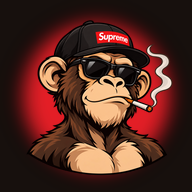
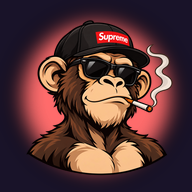
retos: vuelve la paleta violeta/coral (se conserva el mono, la pantalla de entrada y el modo sin anfitrión)
Claude-Session: https://claude.ai/code/session_01YT6P1pj1u3mj19AFxzmjTE

diff --git a/retos/src/app/globals.css b/retos/src/app/globals.css
@@ -1,11 +1,11 @@
-/* Boca Abajo — paleta del mono: negro cálido, marrones de pelaje, tostado, rojo #E31E26, crema y brasa #FF9E2C.
-   Contraste (scripts/contraste.mjs): texto sobre rojo = blanco (4,69); sobre brasa/tostado/menta = tinta (≥9);
-   el rojo solo en elementos grandes; bordes #B88A62 (≥4,6 sobre superficies). */
+/* Boca Abajo — paleta base: #191329 fondo · #2B2040 superficies · #FF6B6B coral · #FFF4E6 crema · #FFD166 amarillo.
+   Ajustes por contraste (ver scripts/contraste.mjs): texto sobre coral/amarillo/menta es oscuro (#191329);
+   bordes de UI en #9A89C6 (≥3:1 sobre fondo y superficies). */
 :root {
-  --bg: #17100D; --surface: #2A1B14; --surface-2: #3B261B; --line: #B88A62;
-  --red: #E31E26; --red-deep: #8E1218; --cream: #FFF1E0; --gold: #FF9E2C; --gold-deep: #B3640B; --tan: #F3C79C;
-  --ink: #0D0908; --muted: #D8C3B0; --mint: #8EE0A4; --danger: #FF9A92;
-  --radius: 20px; --shadow: 0 0 0 3px #0D0908, 0 8px 0 3px #0D0908;
+  --bg: #191329; --surface: #2B2040; --surface-2: #3A2C55; --line: #9A89C6;
+  --coral: #FF6B6B; --coral-deep: #B8434A; --cream: #FFF4E6; --yellow: #FFD166; --yellow-deep: #B88A1F;
+  --ink: #191329; --muted: #CDBFE6; --mint: #7EE0B5; --danger: #FF8A8A;
+  --radius: 20px; --shadow: 0 6px 0 rgba(0, 0, 0, 0.42);
   --font: "Bricolage Grotesque Variable", ui-rounded, "Trebuchet MS", system-ui, sans-serif;
   color-scheme: dark;
 }
@@ -14,15 +14,15 @@ html { -webkit-text-size-adjust: 100%; }
 body {
   margin: 0; min-height: 100dvh; font-family: var(--font); font-size: 17px; line-height: 1.4; color: var(--cream); font-weight: 500;
   background:
-    radial-gradient(900px 500px at 85% -10%, rgba(227, 30, 38, 0.16), transparent 60%),
-    radial-gradient(700px 500px at -10% 30%, rgba(255, 158, 44, 0.09), transparent 60%),
-    radial-gradient(rgba(255, 241, 224, 0.05) 1.2px, transparent 1.4px) 0 0 / 22px 22px,
+    radial-gradient(900px 500px at 85% -10%, rgba(255, 107, 107, 0.16), transparent 60%),
+    radial-gradient(700px 500px at -10% 30%, rgba(255, 209, 102, 0.09), transparent 60%),
+    radial-gradient(rgba(255, 244, 230, 0.05) 1.2px, transparent 1.4px) 0 0 / 22px 22px,
     var(--bg);
   background-attachment: fixed;
 }
 a { color: inherit; }
 button, input, textarea { font: inherit; color: inherit; }
-:focus-visible { outline: 3px solid var(--gold); outline-offset: 3px; border-radius: 12px; }
+:focus-visible { outline: 3px solid var(--yellow); outline-offset: 3px; border-radius: 12px; }
 .muted { color: var(--muted); }
 .small { font-size: 0.88rem; }
 .center { text-align: center; justify-content: center; align-items: center; }
@@ -33,9 +33,9 @@ button, input, textarea { font: inherit; color: inherit; }
 /* ---------- tipografía ---------- */
 .h1 { font-size: 1.9rem; line-height: 1.05; font-weight: 800; font-stretch: 85%; letter-spacing: -0.02em; margin: 0 0 8px; }
 .h2 { font-size: 1.2rem; line-height: 1.15; font-weight: 800; margin: 0 0 6px; display: block; }
-.eyebrow { display: flex; align-items: center; gap: 6px; font-size: 0.78rem; font-weight: 800; letter-spacing: 0.12em; text-transform: uppercase; color: var(--gold); margin: 0 0 6px; }
+.eyebrow { display: flex; align-items: center; gap: 6px; font-size: 0.78rem; font-weight: 800; letter-spacing: 0.12em; text-transform: uppercase; color: var(--yellow); margin: 0 0 6px; }
 .center .eyebrow { justify-content: center; }
-.count { display: inline-grid; place-items: center; min-width: 28px; padding: 0 8px; margin-left: 6px; border-radius: 99px; background: var(--gold); color: var(--ink); font-size: 0.9rem; }
+.count { display: inline-grid; place-items: center; min-width: 28px; padding: 0 8px; margin-left: 6px; border-radius: 99px; background: var(--yellow); color: var(--ink); font-size: 0.9rem; }
 .quote { font-size: 1.35rem; line-height: 1.2; font-weight: 700; margin: 4px 0 14px; overflow-wrap: anywhere; }
 
 /* ---------- layout ---------- */
@@ -44,38 +44,38 @@ button, input, textarea { font: inherit; color: inherit; }
 .page.narrow { padding-top: 40px; }
 .panel { background: var(--surface); border: 2px solid var(--line); border-radius: var(--radius); padding: 18px; box-shadow: var(--shadow); }
 .panel > :last-child { margin-bottom: 0; }
-.topbar { position: sticky; top: 0; z-index: 20; display: flex; align-items: center; justify-content: space-between; gap: 8px; padding: calc(10px + env(safe-area-inset-top)) 12px 10px; background: rgba(23, 16, 13, 0.92); backdrop-filter: blur(8px); border-bottom: 2px solid var(--surface); }
+.topbar { position: sticky; top: 0; z-index: 20; display: flex; align-items: center; justify-content: space-between; gap: 8px; padding: calc(10px + env(safe-area-inset-top)) 12px 10px; background: rgba(25, 19, 41, 0.92); backdrop-filter: blur(8px); border-bottom: 2px solid var(--surface); }
 .code-chip { display: inline-flex; align-items: center; gap: 8px; min-height: 44px; padding: 0 14px; border-radius: 14px; border: 2px solid var(--line); background: var(--surface); font-weight: 800; letter-spacing: 0.2em; cursor: pointer; }
 .top-actions { display: flex; gap: 6px; }
 .icon-btn { position: relative; display: inline-grid; place-items: center; width: 44px; height: 44px; border-radius: 14px; border: 2px solid var(--line); background: var(--surface); cursor: pointer; }
 .icon-btn:active { transform: translateY(2px); }
-.joker-btn.has { background: var(--gold); color: var(--ink); border-color: var(--gold); }
+.joker-btn.has { background: var(--yellow); color: var(--ink); border-color: var(--yellow); }
 .badge { position: absolute; top: -7px; right: -7px; min-width: 20px; height: 20px; padding: 0 5px; border-radius: 99px; background: var(--cream); color: var(--ink); font-size: 0.75rem; font-weight: 800; display: grid; place-items: center; border: 2px solid var(--bg); }
-.offline { background: var(--gold); color: var(--ink); font-weight: 700; padding: 8px 16px; display: flex; gap: 8px; align-items: center; justify-content: center; font-size: 0.92rem; }
+.offline { background: var(--yellow); color: var(--ink); font-weight: 700; padding: 8px 16px; display: flex; gap: 8px; align-items: center; justify-content: center; font-size: 0.92rem; }
 
 /* ---------- estado siempre visible ---------- */
 .banner { display: flex; gap: 12px; align-items: center; padding: 12px 14px; border-radius: 18px; border: 2px solid var(--line); background: var(--surface); }
 .banner-ic { flex: none; width: 40px; height: 40px; border-radius: 12px; display: grid; place-items: center; background: var(--surface-2); }
 .banner-t { margin: 0; font-weight: 800; font-size: 1.08rem; line-height: 1.15; }
 .banner-s { margin: 2px 0 0; color: var(--muted); font-size: 0.9rem; }
-.banner.go { background: var(--red); border-color: var(--red); color: #fff; box-shadow: 0 5px 0 var(--red-deep); }
-.banner.go .banner-ic { background: var(--ink); color: var(--red); }
-.banner.go .banner-s { color: #fff; }
-.banner.wait .banner-ic { color: var(--gold); }
-.joker-strip { display: flex; flex-wrap: wrap; align-items: center; gap: 8px; padding: 10px 12px; border-radius: 16px; border: 2px dashed var(--gold); background: transparent; cursor: pointer; text-align: left; }
-.joker { display: inline-flex; align-items: center; gap: 6px; padding: 5px 12px 5px 9px; border-radius: 99px; background: var(--gold); color: var(--ink); font-weight: 800; font-size: 0.9rem; }
+.banner.go { background: var(--coral); border-color: var(--coral); color: var(--ink); box-shadow: 0 5px 0 var(--coral-deep); }
+.banner.go .banner-ic { background: var(--ink); color: var(--coral); }
+.banner.go .banner-s { color: var(--ink); }
+.banner.wait .banner-ic { color: var(--yellow); }
+.joker-strip { display: flex; flex-wrap: wrap; align-items: center; gap: 8px; padding: 10px 12px; border-radius: 16px; border: 2px dashed var(--yellow); background: transparent; cursor: pointer; text-align: left; }
+.joker { display: inline-flex; align-items: center; gap: 6px; padding: 5px 12px 5px 9px; border-radius: 99px; background: var(--yellow); color: var(--ink); font-weight: 800; font-size: 0.9rem; }
 
 /* ---------- botones ---------- */
 .btn { display: inline-flex; align-items: center; justify-content: center; gap: 10px; min-height: 52px; padding: 12px 22px; border-radius: 16px; border: 2px solid transparent; font-weight: 800; font-size: 1.05rem; cursor: pointer; text-decoration: none; transition: transform 0.08s, box-shadow 0.08s, opacity 0.2s; -webkit-tap-highlight-color: transparent; }
 .btn:disabled { opacity: 0.45; cursor: not-allowed; }
 .btn-xl { min-height: 62px; font-size: 1.2rem; width: 100%; }
-.btn-primary { background: var(--red); color: #fff; border-color: var(--ink); box-shadow: 0 5px 0 var(--red-deep); }
-.btn-primary:active:not(:disabled) { transform: translateY(4px); box-shadow: 0 1px 0 var(--red-deep); }
+.btn-primary { background: var(--coral); color: var(--ink); box-shadow: 0 5px 0 var(--coral-deep); }
+.btn-primary:active:not(:disabled) { transform: translateY(4px); box-shadow: 0 1px 0 var(--coral-deep); }
 .btn-secondary { background: var(--surface-2); border-color: var(--line); color: var(--cream); box-shadow: 0 4px 0 rgba(0, 0, 0, 0.4); }
 .btn-ghost { background: transparent; border-color: var(--line); color: var(--cream); }
-.btn-danger { background: var(--danger); color: var(--ink); border-color: var(--ink); }
-.btn-joker { background: var(--gold); color: var(--ink); box-shadow: 0 5px 0 var(--gold-deep); }
-.btn-joker:active:not(:disabled) { transform: translateY(4px); box-shadow: 0 1px 0 var(--gold-deep); }
+.btn-danger { background: var(--danger); color: var(--ink); }
+.btn-joker { background: var(--yellow); color: var(--ink); box-shadow: 0 5px 0 var(--yellow-deep); }
+.btn-joker:active:not(:disabled) { transform: translateY(4px); box-shadow: 0 1px 0 var(--yellow-deep); }
 .dock { position: sticky; bottom: 0; z-index: 10; display: grid; gap: 10px; padding: 14px 0 calc(8px + env(safe-area-inset-bottom)); margin-top: 4px; background: linear-gradient(to top, var(--bg) 70%, transparent); }
 .hint { display: flex; gap: 8px; align-items: flex-start; justify-content: center; margin: 0; color: var(--muted); font-weight: 600; text-align: center; }
 .status-line { display: flex; gap: 8px; margin: 0; font-weight: 700; justify-content: center; text-align: center; }
@@ -84,28 +84,28 @@ button, input, textarea { font: inherit; color: inherit; }
 /* ---------- formularios ---------- */
 .input { width: 100%; margin: 8px 0; padding: 14px 16px; min-height: 54px; border-radius: 14px; border: 2px solid var(--line); background: var(--bg); color: var(--cream); font-size: 1.1rem; }
 textarea.input { resize: vertical; line-height: 1.3; }
-.input::placeholder { color: #BCA48F; }
+.input::placeholder { color: #A99BC8; }
 .code-input { text-align: center; font-size: 2rem; font-weight: 800; letter-spacing: 0.4em; text-transform: uppercase; padding-left: 0.4em; }
 .seg { display: grid; grid-auto-flow: column; grid-auto-columns: 1fr; gap: 6px; padding: 5px; border-radius: 16px; background: var(--bg); border: 2px solid var(--line); margin-top: 10px; }
 .seg button { min-height: 48px; border-radius: 11px; border: 0; background: transparent; font-weight: 800; cursor: pointer; }
 .seg button.on { background: var(--cream); color: var(--ink); }
 .toggle { display: flex; justify-content: space-between; align-items: center; width: 100%; min-height: 52px; padding: 0 14px; margin-top: 8px; border-radius: 14px; border: 2px solid var(--line); background: var(--bg); cursor: pointer; text-align: left; }
-.toggle b { color: var(--gold); }
+.toggle b { color: var(--yellow); }
 
 /* ---------- inicio ---------- */
 .home { padding-top: 28px; gap: 22px; }
 .hero { text-align: center; position: relative; padding-top: 16px; }
 .logo { margin: 0; display: grid; font-size: clamp(3.4rem, 17vw, 5.4rem); line-height: 0.86; font-weight: 800; font-stretch: 75%; letter-spacing: -0.03em; text-transform: uppercase; transform: rotate(-3deg); }
 .logo span:first-child { color: var(--cream); }
-.logo span:last-child { color: var(--red); text-shadow: 0 4px 0 var(--red-deep); }
+.logo span:last-child { color: var(--coral); text-shadow: 0 4px 0 var(--coral-deep); }
 .tagline { max-width: 30ch; margin: 18px auto 0; color: var(--muted); font-size: 1.1rem; }
 .hero-cards { position: absolute; inset: -6px 0 auto 0; height: 60px; pointer-events: none; }
 .hero-cards i { position: absolute; top: 0; width: 38px; height: 54px; border-radius: 8px; border: 2px solid var(--line); background: var(--surface); box-shadow: var(--shadow); }
-.hero-cards i:nth-child(1) { left: 6%; transform: rotate(-14deg); } .hero-cards i:nth-child(2) { right: 10%; top: 16px; transform: rotate(12deg); background: var(--gold); border-color: var(--gold); } .hero-cards i:nth-child(3) { right: 26%; top: -6px; transform: rotate(-4deg); background: var(--red); border-color: var(--red); }
+.hero-cards i:nth-child(1) { left: 6%; transform: rotate(-14deg); } .hero-cards i:nth-child(2) { right: 10%; top: 16px; transform: rotate(12deg); background: var(--yellow); border-color: var(--yellow); } .hero-cards i:nth-child(3) { right: 26%; top: -6px; transform: rotate(-4deg); background: var(--coral); border-color: var(--coral); }
 .steps ol { list-style: none; padding: 0; margin: 12px 0 0; display: grid; gap: 14px; }
 .steps li { display: flex; gap: 14px; align-items: flex-start; }
 .steps p { margin: 2px 0 0; }
-.step-n { flex: none; width: 38px; height: 38px; border-radius: 12px; display: grid; place-items: center; background: var(--gold); color: var(--ink); font-weight: 800; font-size: 1.2rem; transform: rotate(-4deg); }
+.step-n { flex: none; width: 38px; height: 38px; border-radius: 12px; display: grid; place-items: center; background: var(--yellow); color: var(--ink); font-weight: 800; font-size: 1.2rem; transform: rotate(-4deg); }
 
 /* ---------- sala ---------- */
 .code { display: flex; justify-content: center; gap: 10px; margin: 6px 0 16px; }
@@ -119,87 +119,87 @@ textarea.input { resize: vertical; line-height: 1.3; }
 .pill.is-off .pill-dot { background: transparent; border: 2px solid var(--muted); }
 .pill.is-off .pill-name { color: var(--muted); }
 .pill-name { font-weight: 700; overflow-wrap: anywhere; }
-.pill-badge { display: inline-flex; align-items: center; gap: 4px; font-size: 0.78rem; font-weight: 800; padding: 2px 8px; border-radius: 99px; background: var(--gold); color: var(--ink); }
+.pill-badge { display: inline-flex; align-items: center; gap: 4px; font-size: 0.78rem; font-weight: 800; padding: 2px 8px; border-radius: 99px; background: var(--yellow); color: var(--ink); }
 .pill-badge.muted { background: transparent; color: var(--muted); border: 1.5px solid var(--line); }
 .pill-badge.ok { background: var(--mint); color: var(--ink); }
-.pill-score { margin-left: auto; font-weight: 800; color: var(--gold); }
+.pill-score { margin-left: auto; font-weight: 800; color: var(--yellow); }
 .pill-x { margin-left: auto; width: 36px; height: 36px; border-radius: 10px; border: 2px solid var(--line); background: transparent; display: grid; place-items: center; cursor: pointer; }
 
 /* ---------- cartas ---------- */
 .mystery { display: flex; gap: 16px; align-items: center; text-align: left; }
-.mystery-card { flex: none; width: 58px; height: 80px; border-radius: 10px; display: grid; place-items: center; font-size: 2.2rem; font-weight: 800; color: var(--gold); background: repeating-linear-gradient(45deg, rgba(255,255,255,.08) 0 6px, transparent 6px 12px), var(--surface-2); border: 2px solid var(--line); transform: rotate(-6deg); }
+.mystery-card { flex: none; width: 58px; height: 80px; border-radius: 10px; display: grid; place-items: center; font-size: 2.2rem; font-weight: 800; color: var(--yellow); background: repeating-linear-gradient(45deg, rgba(255,255,255,.08) 0 6px, transparent 6px 12px), var(--surface-2); border: 2px solid var(--line); transform: rotate(-6deg); }
 .cards { display: grid; grid-template-columns: repeat(auto-fit, minmax(120px, 1fr)); gap: 14px; }
 .card-back { position: relative; aspect-ratio: 3 / 3.7; border-radius: 18px; border: 3px solid var(--cream); cursor: default; display: grid; place-items: center; padding: 0;
   background: repeating-linear-gradient(45deg, rgba(255,255,255,.07) 0 9px, transparent 9px 18px), radial-gradient(circle at 50% 40%, var(--surface-2), var(--surface)); box-shadow: var(--shadow); color: var(--cream); animation: deal 0.55s cubic-bezier(.2,1.3,.4,1) backwards; animation-delay: calc(var(--i, 0) * 60ms); transform: perspective(700px) rotateX(var(--rx, 0deg)) rotateY(var(--ry, 0deg)); transition: transform 0.15s, box-shadow 0.15s, border-color 0.15s; }
-.card-back::before { content: ""; position: absolute; inset: 8px; border-radius: 11px; border: 2px solid rgba(255, 241, 224, 0.35); }
+.card-back::before { content: ""; position: absolute; inset: 8px; border-radius: 11px; border: 2px solid rgba(255, 244, 230, 0.35); }
 button.card-back { cursor: pointer; -webkit-tap-highlight-color: transparent; }
 .card-num { font-size: 4.4rem; font-weight: 800; font-stretch: 80%; line-height: 1; text-shadow: 0 4px 0 rgba(0,0,0,.35); }
-.card-corner { position: absolute; font-weight: 800; font-size: 1rem; color: var(--gold); }
+.card-corner { position: absolute; font-weight: 800; font-size: 1rem; color: var(--yellow); }
 .card-corner.tl { top: 14px; left: 16px; } .card-corner.br { bottom: 14px; right: 16px; transform: rotate(180deg); }
-.card-back.is-selected { animation: wobble 0.5s ease-out, glow 1.6s ease-in-out 0.5s infinite; transform: perspective(700px) translateY(-8px) rotate(-2deg) rotateX(var(--rx, 0deg)) rotateY(var(--ry, 0deg)); border-color: var(--gold); box-shadow: 0 12px 0 rgba(0,0,0,.45), 0 0 0 4px var(--gold); }
-.card-back.is-voted { border-color: var(--red); box-shadow: 0 8px 0 rgba(0,0,0,.45), 0 0 0 4px var(--red); }
-.card-tag { position: absolute; bottom: 12px; left: 50%; transform: translateX(-50%); display: inline-flex; gap: 4px; align-items: center; padding: 3px 10px; border-radius: 99px; font-size: 0.78rem; font-weight: 800; background: var(--gold); color: var(--ink); white-space: nowrap; }
-.is-voted .card-tag { background: var(--red); color: #fff; }
+.card-back.is-selected { animation: wobble 0.5s ease-out, glow 1.6s ease-in-out 0.5s infinite; transform: perspective(700px) translateY(-8px) rotate(-2deg) rotateX(var(--rx, 0deg)) rotateY(var(--ry, 0deg)); border-color: var(--yellow); box-shadow: 0 12px 0 rgba(0,0,0,.45), 0 0 0 4px var(--yellow); }
+.card-back.is-voted { border-color: var(--coral); box-shadow: 0 8px 0 rgba(0,0,0,.45), 0 0 0 4px var(--coral); }
+.card-tag { position: absolute; bottom: 12px; left: 50%; transform: translateX(-50%); display: inline-flex; gap: 4px; align-items: center; padding: 3px 10px; border-radius: 99px; font-size: 0.78rem; font-weight: 800; background: var(--yellow); color: var(--ink); white-space: nowrap; }
+.is-voted .card-tag { background: var(--coral); }
 @keyframes deal { from { opacity: 0; transform: translate(0, -60px) rotate(-14deg) scale(0.7); } }
 
 /* ---------- turno revelado ---------- */
 .face { background: var(--cream); color: var(--ink); border-color: var(--ink); box-shadow: 0 8px 0 rgba(0,0,0,.5); animation: pop 0.45s both; }
-.face .eyebrow { color: #8A4B00; }
+.face .eyebrow { color: #7A4B00; }
 .face-head { display: flex; gap: 14px; align-items: center; }
-.face-num { flex: none; width: 58px; height: 58px; border-radius: 14px; display: grid; place-items: center; background: var(--ink); color: var(--gold); font-size: 1.5rem; font-weight: 800; transform: rotate(-5deg); }
+.face-num { flex: none; width: 58px; height: 58px; border-radius: 14px; display: grid; place-items: center; background: var(--ink); color: var(--yellow); font-size: 1.5rem; font-weight: 800; transform: rotate(-5deg); }
 .face-name { margin: 0; font-size: 2rem; line-height: 1; font-weight: 800; font-stretch: 85%; letter-spacing: -0.02em; overflow-wrap: anywhere; }
-.face-challenge { font-size: 1.5rem; line-height: 1.2; font-weight: 700; margin: 16px 0 0; padding: 14px; border-radius: 14px; background: var(--gold); overflow-wrap: anywhere; }
+.face-challenge { font-size: 1.5rem; line-height: 1.2; font-weight: 700; margin: 16px 0 0; padding: 14px; border-radius: 14px; background: var(--yellow); overflow-wrap: anywhere; }
 .events { margin: 12px 0 0; padding-left: 18px; font-size: 0.92rem; font-weight: 600; }
-.alt { border-color: var(--gold); }
+.alt { border-color: var(--yellow); }
 .joker-opt { display: grid; gap: 10px; padding: 14px 0; border-bottom: 2px solid var(--surface-2); }
 .targets { display: flex; flex-wrap: wrap; gap: 8px; }
 .target { min-height: 46px; padding: 0 16px; border-radius: 99px; border: 2px solid var(--line); background: var(--bg); font-weight: 700; display: inline-flex; gap: 6px; align-items: center; cursor: pointer; }
 .target.on { background: var(--cream); color: var(--ink); border-color: var(--cream); }
-.joker-note { display: flex; gap: 10px; align-items: center; border-color: var(--gold); font-weight: 700; }
+.joker-note { display: flex; gap: 10px; align-items: center; border-color: var(--yellow); font-weight: 700; }
 @keyframes pop { 0% { transform: scale(0.92) translateY(14px); opacity: 0; } 70% { transform: scale(1.02); } 100% { transform: none; opacity: 1; } }
 
 /* ---------- resumen / final ---------- */
 .table { width: 100%; border-collapse: collapse; margin: 10px 0; }
 .table th, .table td { padding: 10px 6px; text-align: center; border-bottom: 2px solid var(--surface-2); }
-.table thead th { font-size: 0.8rem; text-transform: uppercase; letter-spacing: 0.08em; color: var(--gold); }
+.table thead th { font-size: 0.8rem; text-transform: uppercase; letter-spacing: 0.08em; color: var(--yellow); }
 .table th[scope="row"], .table thead th:first-child { text-align: left; }
 .podium { list-style: none; margin: 0; padding: 0; display: grid; gap: 10px; }
 .podium li { display: grid; grid-template-columns: auto 1fr auto; gap: 2px 12px; align-items: center; padding: 14px; border-radius: 16px; background: var(--surface); border: 2px solid var(--line); }
-.podium li.first { background: var(--gold); color: var(--ink); border-color: var(--gold); box-shadow: var(--shadow); }
+.podium li.first { background: var(--yellow); color: var(--ink); border-color: var(--yellow); box-shadow: var(--shadow); }
 .pos { font-size: 1.6rem; font-weight: 800; } .pname { font-weight: 800; font-size: 1.15rem; overflow-wrap: anywhere; } .pscore { font-size: 1.6rem; font-weight: 800; } .pscore small { font-size: 0.8rem; }
 .pdetail { grid-column: 2 / -1; font-size: 0.85rem; opacity: 0.9; }
 
 /* ---------- hojas, pausa, avisos ---------- */
-.sheet-backdrop { position: fixed; inset: 0; z-index: 40; background: rgba(8, 5, 4, 0.7); display: flex; align-items: flex-end; justify-content: center; }
+.sheet-backdrop { position: fixed; inset: 0; z-index: 40; background: rgba(10, 6, 20, 0.7); display: flex; align-items: flex-end; justify-content: center; }
 .sheet { position: relative; width: 100%; max-width: 560px; max-height: 88dvh; overflow: auto; padding: 22px 16px calc(24px + env(safe-area-inset-bottom)); background: var(--bg); border: 2px solid var(--line); border-bottom: 0; border-radius: 26px 26px 0 0; display: grid; gap: 14px; align-content: start; animation: rise 0.28s both; }
 .sheet-close { position: absolute; top: 12px; right: 12px; }
 .sheet .h1 { padding-right: 52px; margin: 0; }
 .history { list-style: none; margin: 0; padding: 0; display: grid; gap: 12px; }
 .history li { padding: 12px 14px; border-radius: 14px; background: var(--surface); border: 2px solid var(--surface-2); }
 .history p { margin: 2px 0; overflow-wrap: anywhere; }
-.pause { position: fixed; inset: 0; z-index: 60; display: grid; place-items: center; padding: 24px; background: rgba(8, 5, 4, 0.88); }
+.pause { position: fixed; inset: 0; z-index: 60; display: grid; place-items: center; padding: 24px; background: rgba(10, 6, 20, 0.88); }
 .pause .panel { display: grid; gap: 12px; justify-items: center; max-width: 380px; }
 .toasts { position: fixed; z-index: 80; left: 0; right: 0; bottom: calc(86px + env(safe-area-inset-bottom)); display: grid; gap: 8px; justify-items: center; pointer-events: none; padding: 0 16px; }
 .toast { padding: 12px 18px; border-radius: 14px; background: var(--cream); color: var(--ink); font-weight: 700; box-shadow: var(--shadow); max-width: 440px; animation: pop 0.25s both; }
 @keyframes rise { from { transform: translateY(40px); opacity: 0; } }
 
 /* ---------- revelación ---------- */
-.reveal { position: fixed; inset: 0; z-index: 70; display: grid; place-items: center; padding: 20px; background: rgba(10, 6, 5, 0.96); animation: fade 0.3s both; overflow: auto; }
-.reveal-spot { position: absolute; inset: 0; background: radial-gradient(420px 420px at 50% 40%, rgba(255, 158, 44, 0.22), transparent 70%); animation: breathe 1.6s ease-in-out infinite; }
+.reveal { position: fixed; inset: 0; z-index: 70; display: grid; place-items: center; padding: 20px; background: rgba(15, 9, 28, 0.96); animation: fade 0.3s both; overflow: auto; }
+.reveal-spot { position: absolute; inset: 0; background: radial-gradient(420px 420px at 50% 40%, rgba(255, 209, 102, 0.22), transparent 70%); animation: breathe 1.6s ease-in-out infinite; }
 .reveal-inner { position: relative; display: grid; gap: 16px; justify-items: center; text-align: center; width: 100%; max-width: 420px; }
-.reveal-kicker { margin: 0; min-height: 2.6em; font-size: 1.15rem; font-weight: 800; color: var(--gold); letter-spacing: 0.02em; }
+.reveal-kicker { margin: 0; min-height: 2.6em; font-size: 1.15rem; font-weight: 800; color: var(--yellow); letter-spacing: 0.02em; }
 .flip { width: min(62vw, 250px); aspect-ratio: 3 / 4.1; perspective: 1000px; position: relative; }
 .flip-face { position: absolute; inset: 0; border-radius: 22px; backface-visibility: hidden; -webkit-backface-visibility: hidden; transition: transform 0.8s cubic-bezier(.3, 1.3, .5, 1); }
 .flip-front { transform: rotateY(0); display: grid; place-items: center; animation: none; }
 .flip-front .card-num { font-size: 6rem; }
-.flip-back { transform: rotateY(-180deg); background: var(--cream); color: var(--ink); border: 4px solid var(--gold); display: grid; align-content: center; justify-items: center; gap: 6px; padding: 14px; box-shadow: 0 0 0 4px var(--red), 0 14px 0 rgba(0,0,0,.4); }
+.flip-back { transform: rotateY(-180deg); background: var(--cream); color: var(--ink); border: 4px solid var(--yellow); display: grid; align-content: center; justify-items: center; gap: 6px; padding: 14px; box-shadow: 0 0 0 4px var(--coral), 0 14px 0 rgba(0,0,0,.4); }
 .is-flipped .flip-front { transform: rotateY(180deg); } .is-flipped .flip-back { transform: rotateY(0); }
 .is-shaking { animation: shake 0.5s ease-in-out infinite; }
-.flip-label { font-weight: 800; letter-spacing: 0.1em; text-transform: uppercase; font-size: 0.85rem; color: #8A4B00; }
+.flip-label { font-weight: 800; letter-spacing: 0.1em; text-transform: uppercase; font-size: 0.85rem; color: #7A4B00; }
 .flip-name { font-size: clamp(2rem, 11vw, 3rem); line-height: 0.95; font-weight: 800; font-stretch: 78%; overflow-wrap: anywhere; }
 .reveal-challenge { min-height: 7.5em; width: 100%; }
-.reveal-challenge p { margin: 6px 0 0; padding: 14px 16px; border-radius: 16px; background: var(--gold); color: var(--ink); font-size: 1.35rem; line-height: 1.2; font-weight: 800; overflow-wrap: anywhere; animation: pop 0.45s both, ringglow 1.8s ease-out 0.4s 1; }
-.chip-label { font-size: 0.8rem; font-weight: 800; letter-spacing: 0.12em; text-transform: uppercase; color: var(--gold); }
+.reveal-challenge p { margin: 6px 0 0; padding: 14px 16px; border-radius: 16px; background: var(--yellow); color: var(--ink); font-size: 1.35rem; line-height: 1.2; font-weight: 800; overflow-wrap: anywhere; animation: pop 0.45s both, ringglow 1.8s ease-out 0.4s 1; }
+.chip-label { font-size: 0.8rem; font-weight: 800; letter-spacing: 0.12em; text-transform: uppercase; color: var(--yellow); }
 .confetti { position: fixed; inset: 0; pointer-events: none; overflow: hidden; }
 .confetti i { position: absolute; top: -16px; left: var(--x); width: 10px; height: 16px; border-radius: 2px; opacity: 0; animation: fall 2.4s ease-in var(--d) both; transform: rotate(var(--r)); }
 @keyframes fall { 0% { opacity: 1; transform: translate(0, 0) rotate(var(--r)); } 100% { opacity: 0; transform: translate(var(--dx), 105vh) rotate(calc(var(--r) + 540deg)); } }
@@ -222,9 +222,9 @@ button.card-back { cursor: pointer; -webkit-tap-highlight-color: transparent; }
 /* Fondo vivo: manchas de color que derivan despacio (solo transform/opacity) */
 .ambient { position: fixed; inset: 0; z-index: 0; overflow: hidden; pointer-events: none; }
 .ambient i { position: absolute; width: 60vmax; height: 60vmax; border-radius: 50%; filter: blur(70px); opacity: 0.22; will-change: transform; }
-.ambient i:nth-child(1) { background: var(--red); top: -30vmax; right: -25vmax; animation: drift1 26s ease-in-out infinite alternate; }
-.ambient i:nth-child(2) { background: #7A3E1D; bottom: -35vmax; left: -30vmax; opacity: 0.3; animation: drift2 32s ease-in-out infinite alternate; }
-.ambient i:nth-child(3) { background: var(--gold); width: 34vmax; height: 34vmax; top: 35%; left: 55%; opacity: 0.08; animation: drift1 38s ease-in-out infinite alternate-reverse; }
+.ambient i:nth-child(1) { background: var(--coral); top: -30vmax; right: -25vmax; animation: drift1 26s ease-in-out infinite alternate; }
+.ambient i:nth-child(2) { background: #6B3FD6; bottom: -35vmax; left: -30vmax; opacity: 0.3; animation: drift2 32s ease-in-out infinite alternate; }
+.ambient i:nth-child(3) { background: var(--yellow); width: 34vmax; height: 34vmax; top: 35%; left: 55%; opacity: 0.08; animation: drift1 38s ease-in-out infinite alternate-reverse; }
 @keyframes drift1 { to { transform: translate(-12vmax, 14vmax) scale(1.15); } }
 @keyframes drift2 { to { transform: translate(16vmax, -10vmax) scale(0.9); } }
 .shell, .home, .page.narrow { position: relative; z-index: 1; }
@@ -236,7 +236,7 @@ button.card-back { cursor: pointer; -webkit-tap-highlight-color: transparent; }
 .banner { animation: bannerIn 0.45s cubic-bezier(.2,1.2,.4,1) both; }
 @keyframes bannerIn { from { opacity: 0; transform: translateY(-14px) scale(0.97); } }
 .banner.go { animation: bannerIn 0.45s cubic-bezier(.2,1.2,.4,1) both, goPulse 2.2s ease-in-out 0.6s infinite; }
-@keyframes goPulse { 50% { box-shadow: 0 5px 0 var(--red-deep), 0 0 0 7px rgba(227, 30, 38, 0.28); } }
+@keyframes goPulse { 50% { box-shadow: 0 5px 0 var(--coral-deep), 0 0 0 7px rgba(255, 107, 107, 0.28); } }
 .ic-clock { animation: spin 7s linear infinite; }
 @keyframes spin { to { transform: rotate(360deg); } }
 
@@ -278,15 +278,15 @@ button.card-back { cursor: pointer; -webkit-tap-highlight-color: transparent; }
 @keyframes popIn { from { opacity: 0; transform: scale(0.6) translateX(-20px); } }
 .pill-dot { animation: ping-dot 2.4s ease-out infinite; }
 .pill.is-off .pill-dot { animation: none; }
-@keyframes ping-dot { 0% { box-shadow: 0 0 0 0 rgba(142, 224, 164, 0.7); } 70%, 100% { box-shadow: 0 0 0 8px rgba(142, 224, 164, 0); } }
+@keyframes ping-dot { 0% { box-shadow: 0 0 0 0 rgba(126, 224, 181, 0.7); } 70%, 100% { box-shadow: 0 0 0 8px rgba(126, 224, 181, 0); } }
 .qr { animation: popIn 0.6s 0.3s cubic-bezier(.2,1.5,.4,1) backwards; }
 
 /* Cartas: selección, voto y reparto */
 @keyframes wobble { 0% { transform: perspective(700px) translateY(0) rotate(0) scale(1); } 40% { transform: perspective(700px) translateY(-14px) rotate(-5deg) scale(1.05); } 100% { transform: perspective(700px) translateY(-8px) rotate(-2deg); } }
-@keyframes glow { 50% { box-shadow: 0 12px 0 rgba(0,0,0,.45), 0 0 0 4px var(--gold), 0 0 28px 6px rgba(255, 158, 44, 0.55); } }
-.card-back.is-voted::after { content: ""; position: absolute; inset: -4px; border-radius: 22px; border: 3px solid var(--red); animation: ping 0.9s ease-out both; pointer-events: none; }
+@keyframes glow { 50% { box-shadow: 0 12px 0 rgba(0,0,0,.45), 0 0 0 4px var(--yellow), 0 0 28px 6px rgba(255, 209, 102, 0.55); } }
+.card-back.is-voted::after { content: ""; position: absolute; inset: -4px; border-radius: 22px; border: 3px solid var(--coral); animation: ping 0.9s ease-out both; pointer-events: none; }
 @keyframes ping { from { transform: scale(1); opacity: 1; } to { transform: scale(1.35); opacity: 0; } }
-button.card-back:not(:disabled):hover { box-shadow: 0 10px 0 rgba(0,0,0,.45), 0 0 22px rgba(255, 241, 224, 0.18); }
+button.card-back:not(:disabled):hover { box-shadow: 0 10px 0 rgba(0,0,0,.45), 0 0 22px rgba(255, 244, 230, 0.18); }
 .mystery-card { animation: bob 3s ease-in-out infinite; }
 @keyframes bob { 50% { transform: rotate(4deg) translateY(-6px); } }
 .face::before { content: ""; position: absolute; inset: 0; border-radius: inherit; background: linear-gradient(105deg, transparent 35%, rgba(255,255,255,0.65) 50%, transparent 65%); transform: translateX(-120%); animation: sweep 1.1s 0.3s ease-out 1 forwards; pointer-events: none; }
@@ -300,11 +300,11 @@ button.card-back:not(:disabled):hover { box-shadow: 0 10px 0 rgba(0,0,0,.45), 0 
 .roulette { display: flex; flex-wrap: wrap; gap: 8px; justify-content: center; max-width: 360px; min-height: 52px; }
 .mini { width: 40px; height: 52px; border-radius: 9px; display: grid; place-items: center; font-weight: 800; font-size: 1.15rem; background: var(--surface-2); color: var(--muted); border: 2px solid var(--line); transition: transform 0.12s, background 0.12s, color 0.12s, box-shadow 0.12s, opacity 0.4s; }
 .mini.dim { opacity: 0.3; }
-.mini.lit { background: var(--gold); color: var(--ink); border-color: var(--gold); transform: translateY(-9px) scale(1.18) rotate(-4deg); box-shadow: 0 0 18px 3px rgba(255, 158, 44, 0.7); }
+.mini.lit { background: var(--yellow); color: var(--ink); border-color: var(--yellow); transform: translateY(-9px) scale(1.18) rotate(-4deg); box-shadow: 0 0 18px 3px rgba(255, 209, 102, 0.7); }
 .roulette.is-landed .mini.out { opacity: 0.18; transform: scale(0.85); }
-.mini.won { background: var(--red); color: #fff; border-color: var(--red); transform: scale(1.3) translateY(-6px); box-shadow: 0 0 24px 6px rgba(227, 30, 38, 0.75); animation: landed 0.6s cubic-bezier(.2,2,.4,1); }
+.mini.won { background: var(--coral); color: var(--ink); border-color: var(--coral); transform: scale(1.3) translateY(-6px); box-shadow: 0 0 24px 6px rgba(255, 107, 107, 0.75); animation: landed 0.6s cubic-bezier(.2,2,.4,1); }
 @keyframes landed { from { transform: scale(0.8); } }
-.shock { position: absolute; inset: 0; border-radius: 22px; border: 4px solid var(--gold); pointer-events: none; animation: shock 1s ease-out both; }
+.shock { position: absolute; inset: 0; border-radius: 22px; border: 4px solid var(--yellow); pointer-events: none; animation: shock 1s ease-out both; }
 @keyframes shock { from { transform: scale(0.9); opacity: 0.9; } to { transform: scale(1.7); opacity: 0; } }
 .reveal-kicker { animation: kick 0.35s ease-out both; }
 @keyframes kick { from { opacity: 0; transform: translateY(8px) scale(0.96); } }
@@ -313,7 +313,7 @@ button.card-back:not(:disabled):hover { box-shadow: 0 10px 0 rgba(0,0,0,.45), 0 
 @keyframes letter { from { opacity: 0; transform: translateY(40px) rotate(14deg) scale(0.4); } }
 .w { display: inline-block; margin-right: 0.28em; animation: word 0.45s cubic-bezier(.2,1.5,.4,1) backwards; }
 @keyframes word { from { opacity: 0; transform: translateY(14px) scale(0.85); } }
-@keyframes ringglow { 0% { box-shadow: 0 0 0 0 rgba(255, 158, 44, 0.9); } 100% { box-shadow: 0 0 0 26px rgba(255, 158, 44, 0); } }
+@keyframes ringglow { 0% { box-shadow: 0 0 0 0 rgba(255, 209, 102, 0.9); } 100% { box-shadow: 0 0 0 26px rgba(255, 209, 102, 0); } }
 .reveal-spot { animation: breathe 1.6s ease-in-out infinite; }
 
 /* Resumen y final */
@@ -321,7 +321,7 @@ button.card-back:not(:disabled):hover { box-shadow: 0 10px 0 rgba(0,0,0,.45), 0 
 .podium li { animation: podium 0.7s cubic-bezier(.2,1.4,.4,1) backwards; animation-delay: calc(var(--i, 0) * 220ms + 300ms); }
 @keyframes podium { from { opacity: 0; transform: translateY(70px) scale(0.85); } }
 .podium li.first { animation: podium 0.7s cubic-bezier(.2,1.4,.4,1) backwards, winnerglow 2.2s ease-in-out 1.6s infinite; animation-delay: calc(var(--i, 0) * 220ms + 300ms), 0s; }
-@keyframes winnerglow { 50% { box-shadow: 0 6px 0 rgba(0,0,0,.42), 0 0 34px 8px rgba(255, 158, 44, 0.6); } }
+@keyframes winnerglow { 50% { box-shadow: 0 6px 0 rgba(0,0,0,.42), 0 0 34px 8px rgba(255, 209, 102, 0.6); } }
 .podium .first .ic-crown { animation: twinkle 2s ease-in-out infinite; }
 .joker-note { animation: pop 0.6s 0.5s cubic-bezier(.2,1.6,.4,1) backwards; }
 .toast { animation: toastIn 0.4s cubic-bezier(.2,1.6,.4,1) both; }
@@ -330,15 +330,15 @@ button.card-back:not(:disabled):hover { box-shadow: 0 10px 0 rgba(0,0,0,.45), 0 
 .pause .panel { animation: pop 0.4s both; }
 
 /* Datos curiosos */
-.fact { border-color: var(--gold); display: grid; gap: 10px; }
+.fact { border-color: var(--yellow); display: grid; gap: 10px; }
 .fact-next { min-height: 40px; padding: 4px 14px; font-size: 0.9rem; }
 .fact-body { min-height: 8.2em; animation: factIn 0.5s cubic-bezier(.2,1.2,.4,1) both; }
 @keyframes factIn { from { opacity: 0; transform: translateY(14px) rotate(-0.6deg); } }
 .fact-text { margin: 0 0 8px; font-size: 1.2rem; line-height: 1.28; font-weight: 700; overflow-wrap: anywhere; }
 .fact-src { margin: 0; font-size: 0.85rem; color: var(--muted); }
-.fact-src a { color: var(--gold); text-underline-offset: 3px; }
+.fact-src a { color: var(--yellow); text-underline-offset: 3px; }
 .fact-bar { height: 4px; border-radius: 4px; background: var(--surface-2); overflow: hidden; }
-.fact-bar i { display: block; height: 100%; background: var(--gold); transform-origin: left; animation: factbar linear both; }
+.fact-bar i { display: block; height: 100%; background: var(--yellow); transform-origin: left; animation: factbar linear both; }
 @keyframes factbar { from { transform: scaleX(0); } to { transform: scaleX(1); } }
 :root[data-motion="reduced"] .fact-bar { display: none; }
 @media (prefers-reduced-motion: reduce) { .fact-bar { display: none; } }
@@ -377,13 +377,13 @@ button.card-back:not(:disabled):hover { box-shadow: 0 10px 0 rgba(0,0,0,.45), 0 
 
 /* pantalla de entrada */
 .splash { position: fixed; inset: 0; z-index: 200; display: grid; place-items: center; padding: 20px; cursor: pointer;
-  background: radial-gradient(520px 520px at 50% 42%, rgba(227, 30, 38, 0.55), transparent 70%), var(--bg); animation: splashIn 0.4s both; }
+  background: radial-gradient(520px 520px at 50% 42%, rgba(255, 107, 107, 0.55), transparent 70%), var(--bg); animation: splashIn 0.4s both; }
 .splash.is-leaving { animation: splashOut 0.45s both; pointer-events: none; }
 @keyframes splashIn { from { opacity: 0; } }
 @keyframes splashOut { to { opacity: 0; transform: scale(1.06); } }
 .splash-inner { display: grid; justify-items: center; gap: 14px; }
 .splash-mascot { width: min(82vw, 400px); margin-bottom: -10px; animation: mascotIn 0.9s cubic-bezier(.2,1.6,.4,1) 0.15s backwards, headbob 5s ease-in-out 1s infinite; }
 .splash-logo { margin: 0; font-size: clamp(2.6rem, 14vw, 4rem); line-height: 0.9; font-weight: 800; font-stretch: 75%; letter-spacing: -0.03em; text-transform: uppercase; transform: rotate(-3deg); animation: slideUp 0.6s 0.5s cubic-bezier(.2,1.4,.4,1) backwards; }
-.splash-logo span:first-child { color: var(--cream); } .splash-logo span:last-child { color: var(--red); text-shadow: 0 4px 0 var(--red-deep); }
+.splash-logo span:first-child { color: var(--cream); } .splash-logo span:last-child { color: var(--coral); text-shadow: 0 4px 0 var(--coral-deep); }
 .splash-tap { margin: 0; color: var(--muted); font-weight: 700; animation: tapPulse 1.6s ease-in-out 1.2s infinite, fade 0.5s 1s backwards; }
 @keyframes tapPulse { 50% { opacity: 0.45; } }

diff --git a/retos/src/app/layout.tsx b/retos/src/app/layout.tsx
@@ -9,7 +9,7 @@ export const metadata: Metadata = {
   appleWebApp: { capable: true, title: "Boca Abajo", statusBarStyle: "black-translucent" },
   description: "Juego de retos para jugar con amigos desde el celular: cartas boca abajo, votación en secreto y una revelación con suspenso.",
 };
-export const viewport: Viewport = { themeColor: "#17100D", width: "device-width", initialScale: 1, viewportFit: "cover" };
+export const viewport: Viewport = { themeColor: "#191329", width: "device-width", initialScale: 1, viewportFit: "cover" };
 
 export default function RootLayout({ children }: { children: React.ReactNode }) {
   return (

diff --git a/retos/src/components/Screens.tsx b/retos/src/components/Screens.tsx
@@ -91,7 +91,7 @@ export function Lobby({ c }: { c: Ctx }) {
   const url = typeof window !== "undefined" ? `${location.origin}/sala/${view.code}` : "";
   useEffect(() => {
     if (!url) return;
-    QRCode.toDataURL(url, { margin: 1, width: 240, color: { dark: "#17100D", light: "#FFF1E0" } }).then(setQr).catch(() => {});
+    QRCode.toDataURL(url, { margin: 1, width: 240, color: { dark: "#191329", light: "#FFF4E6" } }).then(setQr).catch(() => {});
   }, [url]);
   const share = async () => {
     try {

diff --git a/retos/src/app/manifest.ts b/retos/src/app/manifest.ts
@@ -8,8 +8,8 @@ export default function manifest(): MetadataRoute.Manifest {
     start_url: "/",
     display: "standalone",
     orientation: "portrait",
-    background_color: "#17100D",
-    theme_color: "#17100D",
+    background_color: "#191329",
+    theme_color: "#191329",
     lang: "es",
     icons: [
       { src: "/icon-192.png", sizes: "192x192", type: "image/png" },

diff --git a/retos/src/components/Cards.tsx b/retos/src/components/Cards.tsx
@@ -43,7 +43,7 @@ export const JOKER_INFO = {
 
 export function Confetti() {
   const pieces = Array.from({ length: 28 }, (_, i) => i);
-  const colors = ["#E31E26", "#FF9E2C", "#FFF1E0", "#F3C79C", "#8EE0A4"];
+  const colors = ["#FF6B6B", "#FFD166", "#FFF4E6", "#7EE0B5", "#B79CFF"];
   return (
     <div className="confetti" aria-hidden="true">
       {pieces.map((i) => (
